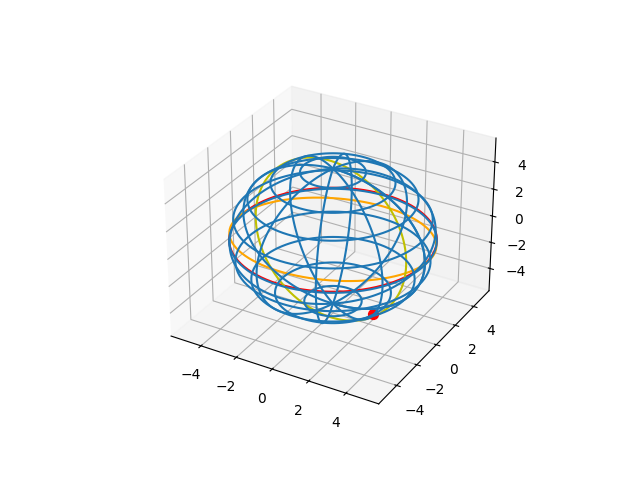
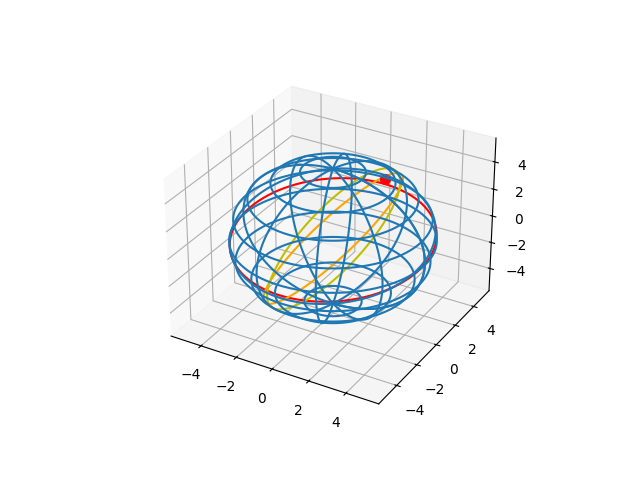
essrysr6

Changed region(s): [[0.3438, 0.3125, 0.6875, 0.6875]]

diff --git a/iuhu.py b/iuhu.py
@@ -51,11 +51,12 @@ x2_tok = x1_tok * np.cos(b) + z1_tok * np.sin(b)
 y2_tok = y1_tok
 z2_tok = -x1_tok * np.sin(b) + z1_tok * np.cos(b)
 
-x3_tok = x2_tok * np.cos(t) - y2_tok * np.sin(t)
-y3_tok = x2_tok * np.sin(t) + y2_tok * np.cos(t)
+x3_tok = x2_tok * np.cos(t) - z2_tok * np.sin(t)
+y3_tok = x2_tok * np.sin(t) + z2_tok * np.cos(t)
 z3_tok = z2_tok
+
+
 
 ax.scatter(x3_tok, y3_tok, z3_tok, s=50, color='red')
 
 plt.savefig("fig_6.png") 
-
